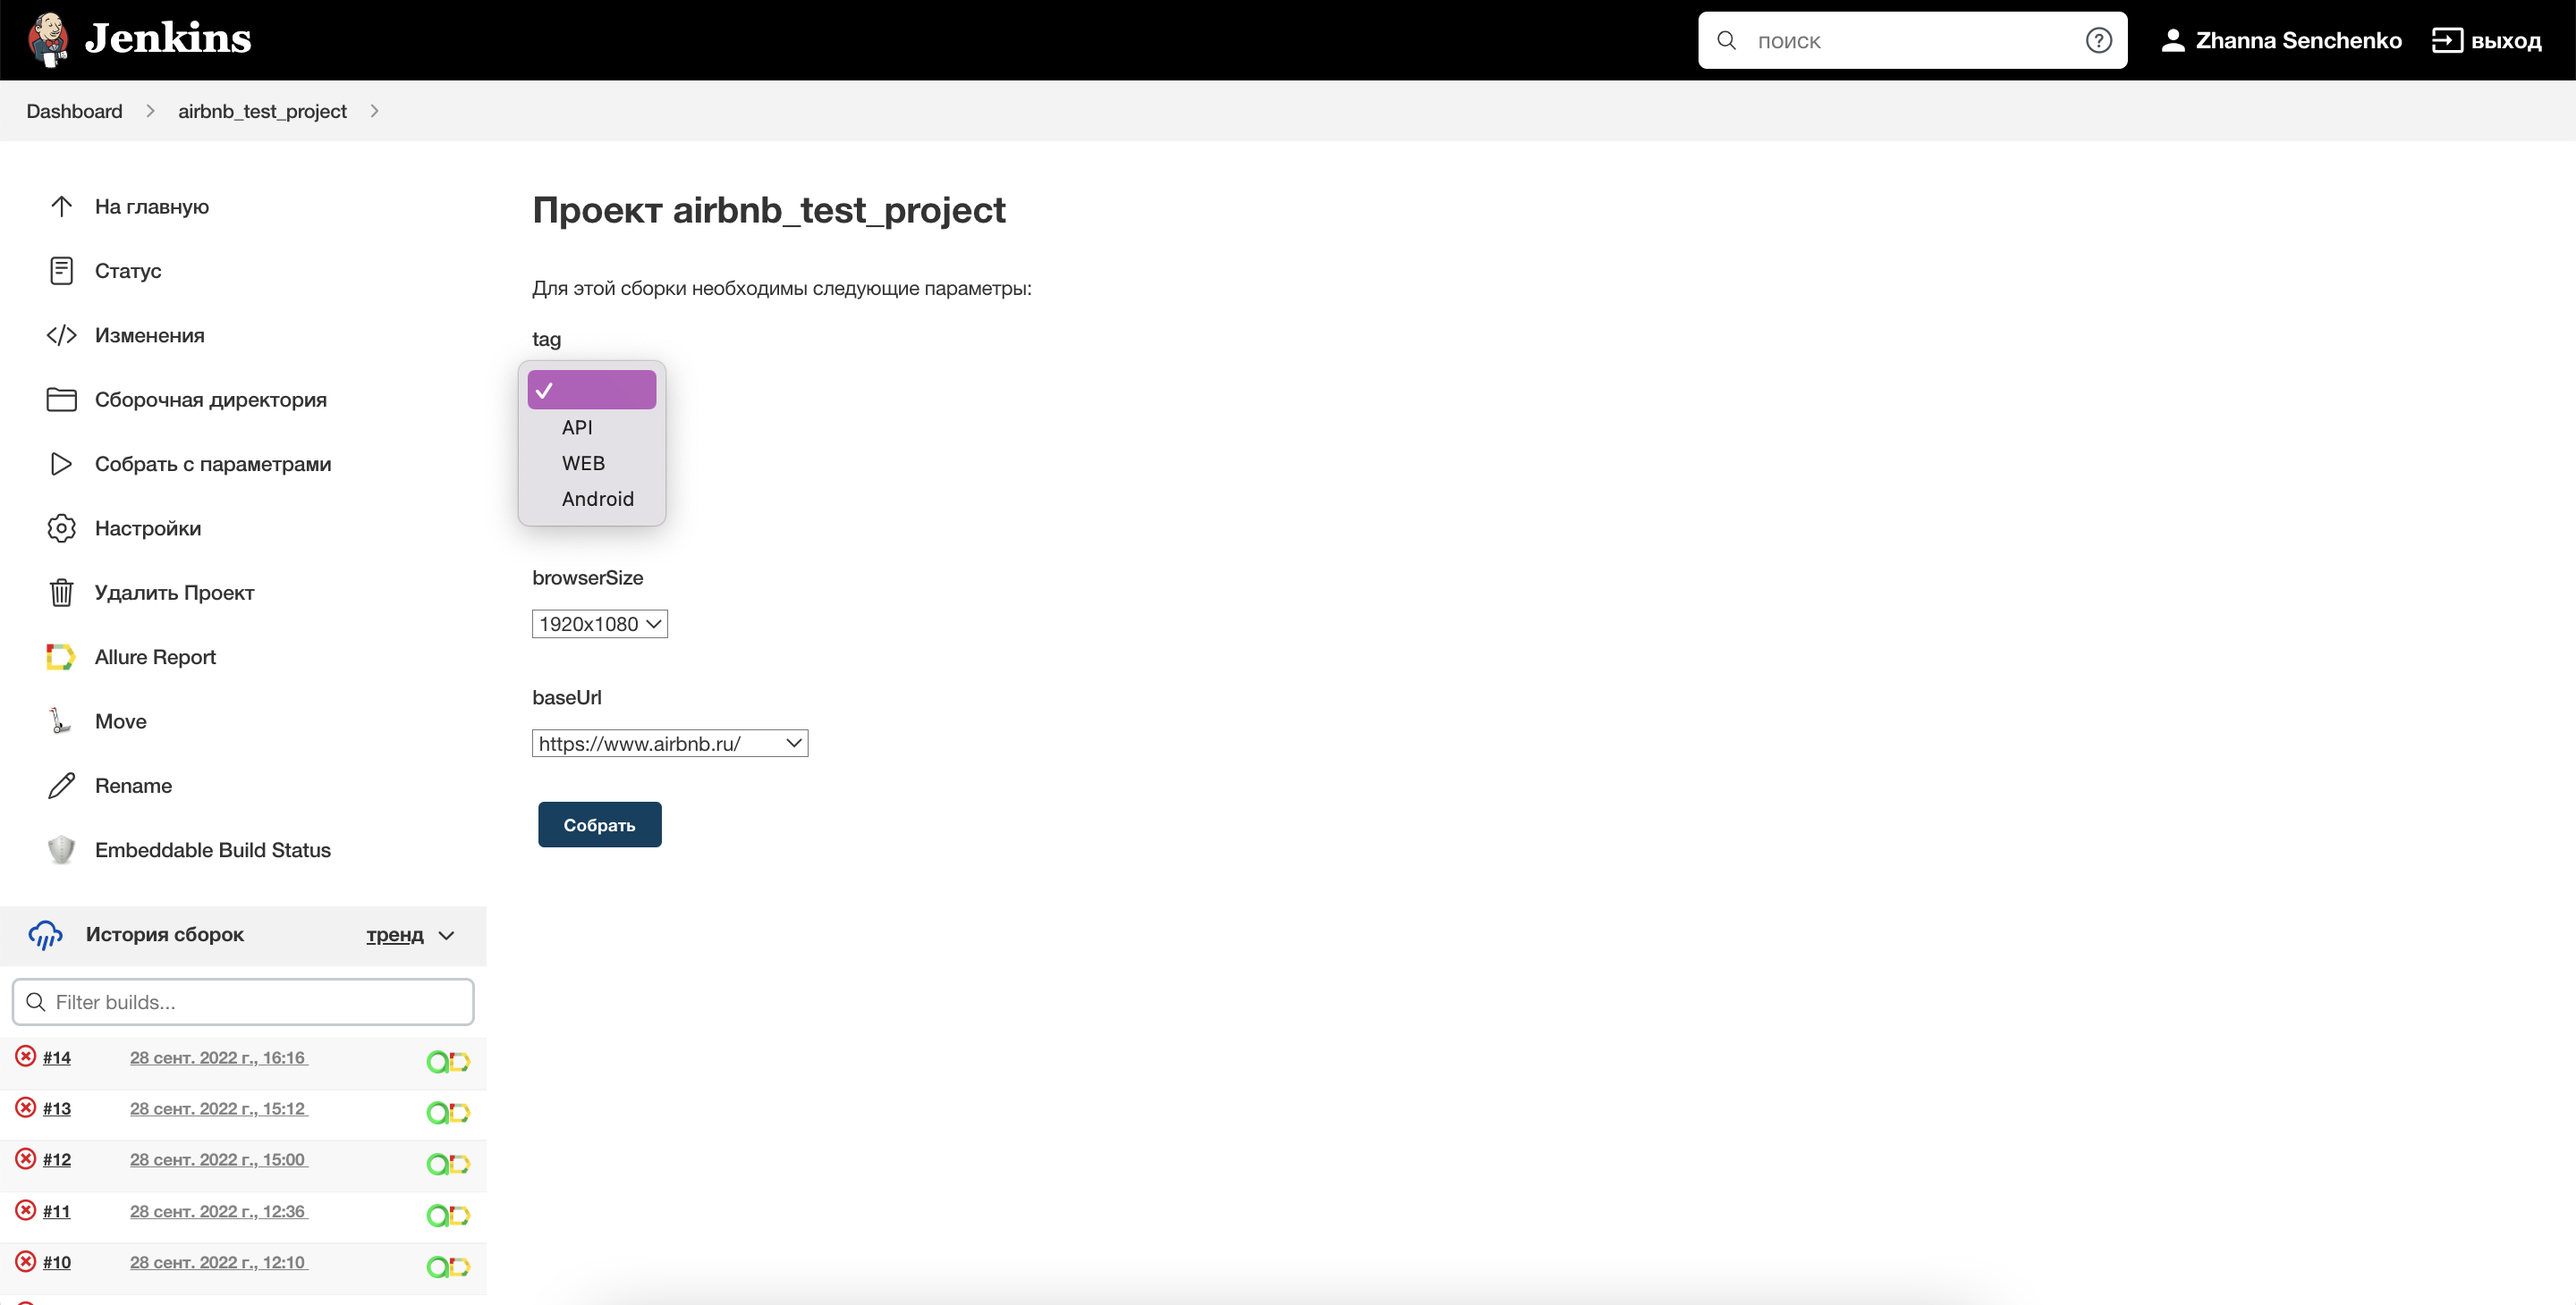
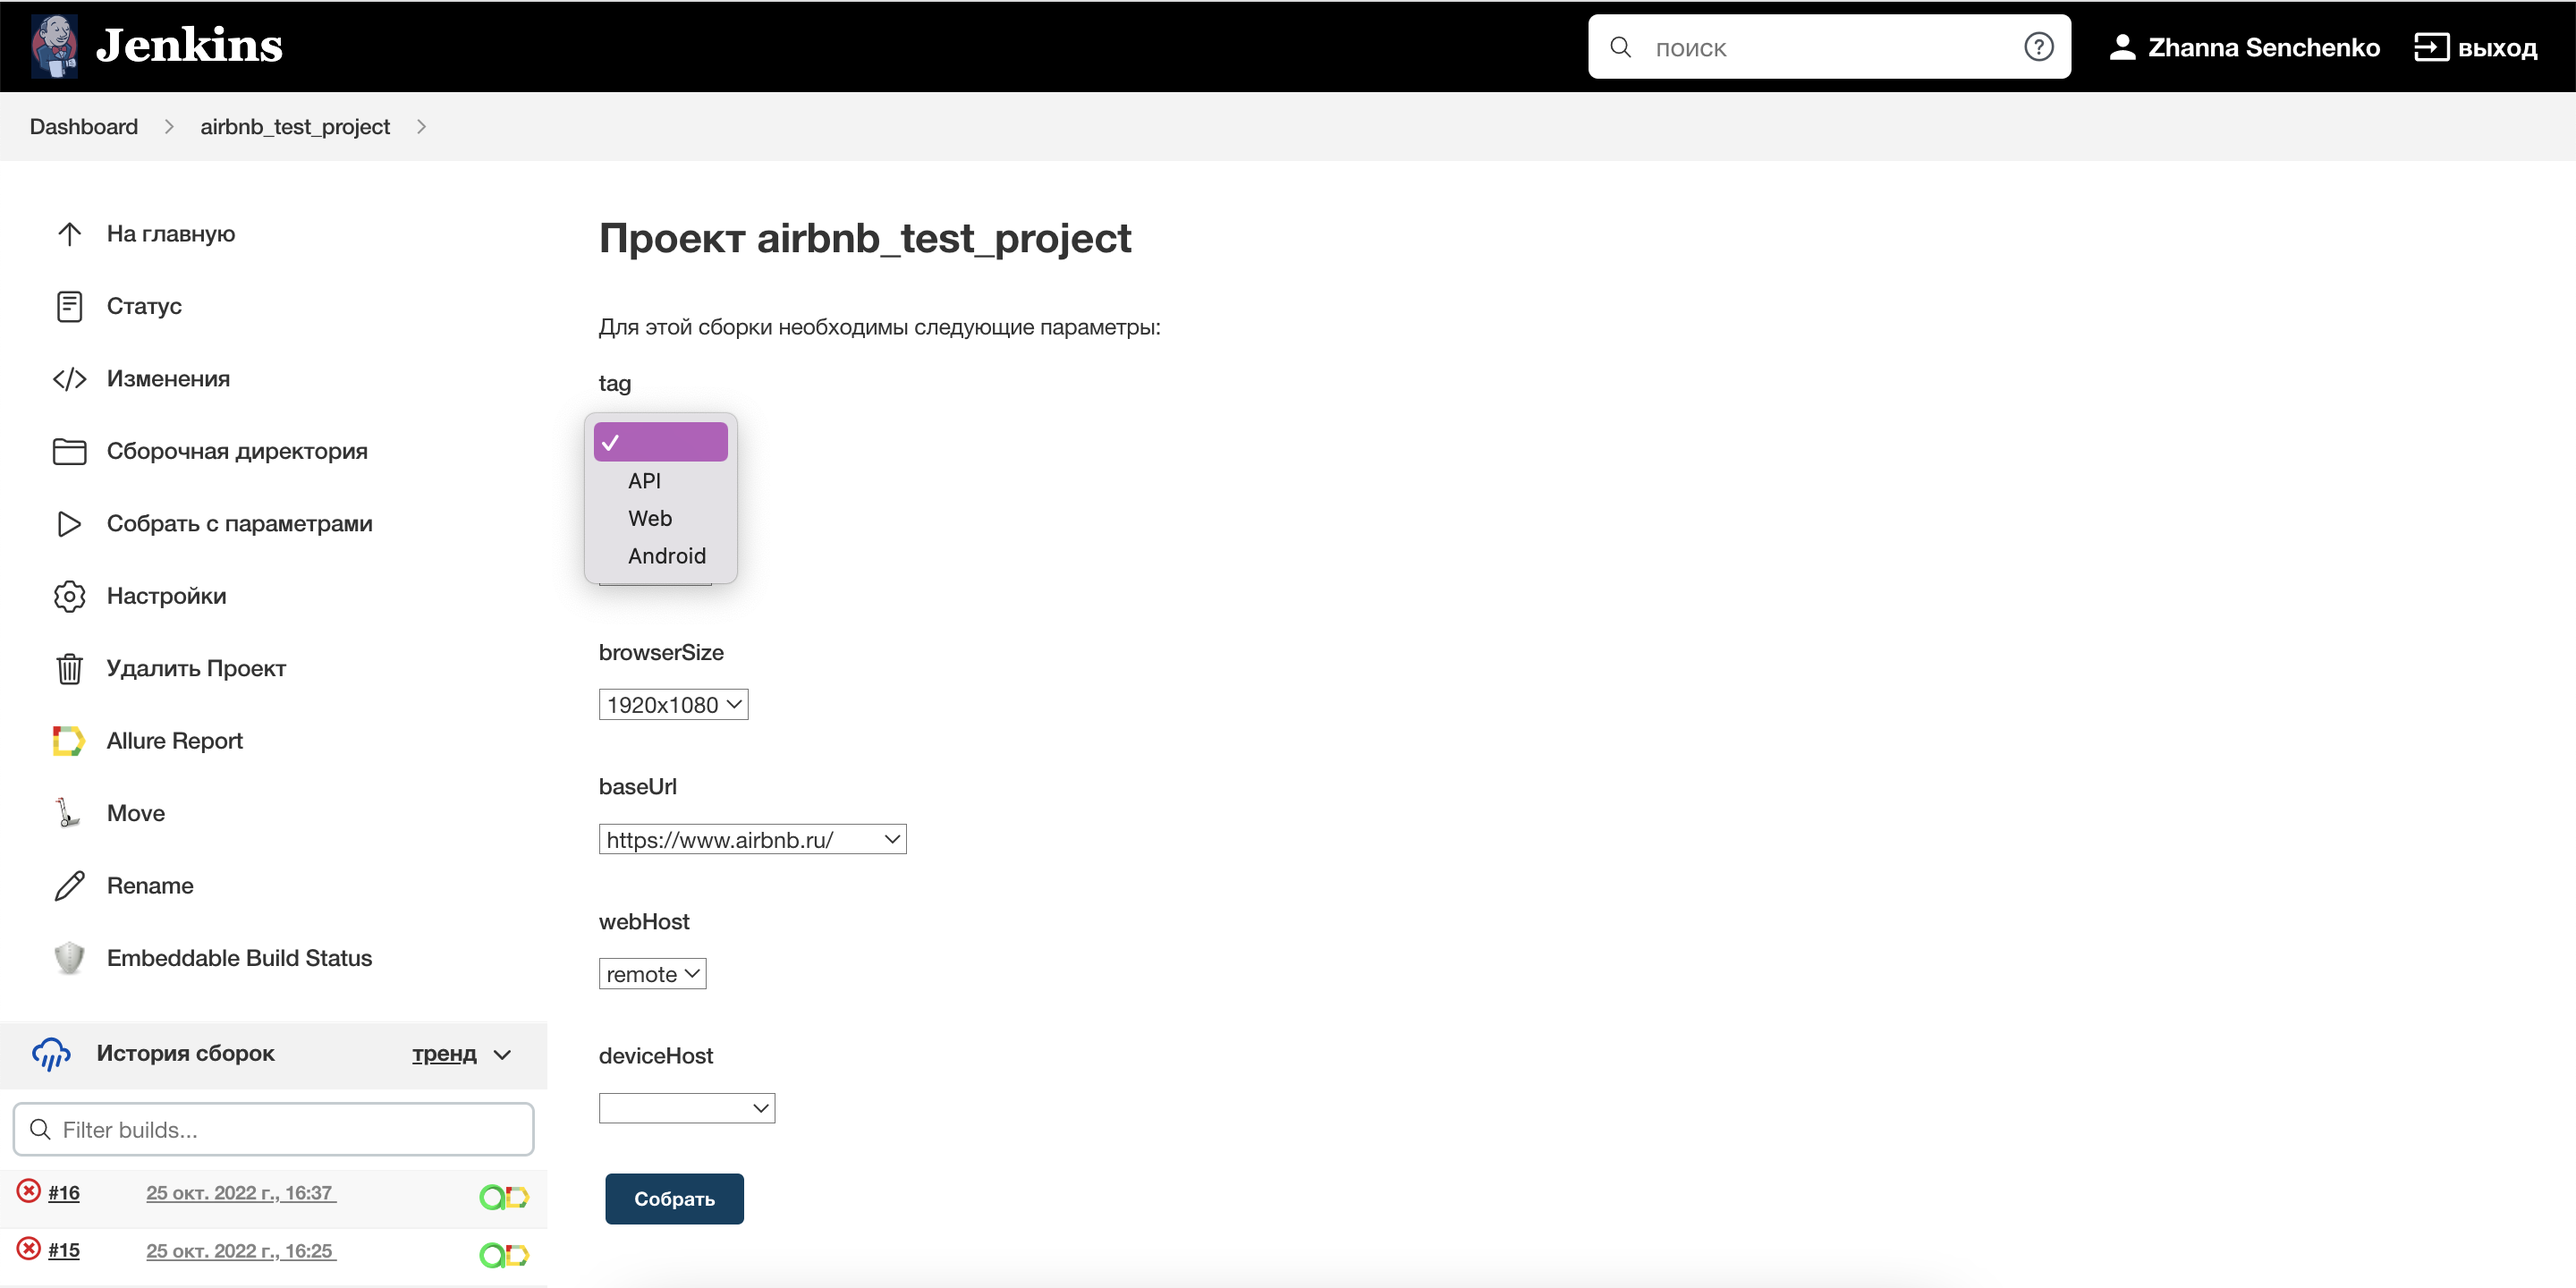
made minor changes

diff --git a/README.md b/README.md
@@ -63,7 +63,9 @@ Additional parameters:
 1920x1080
 1366x768
 1024x768\
-> `-DbaseUrl` URL for running tests
+> `-DbaseUrl` url to run tests
+> `-DwebHost` host to run web tests
+> `-DdeviceHost` device to run mobile tests
 ```bash
 clean
 test
@@ -71,6 +73,8 @@ test
 -Dbrowser=${browser}
 -DbrowserSize=${browserSize}
 -DbaseUrl=${baseUrl}
+-DwebHost=${webHost}
+-DdeviceHost=${deviceHost}
 ```
 
 ## <a name="Allure Report"></a><img width="4%" src="images/logo/Allure.svg"> Allure [Report](https://jenkins.autotests.cloud/job/airbnb_test_project/14/allure/)
